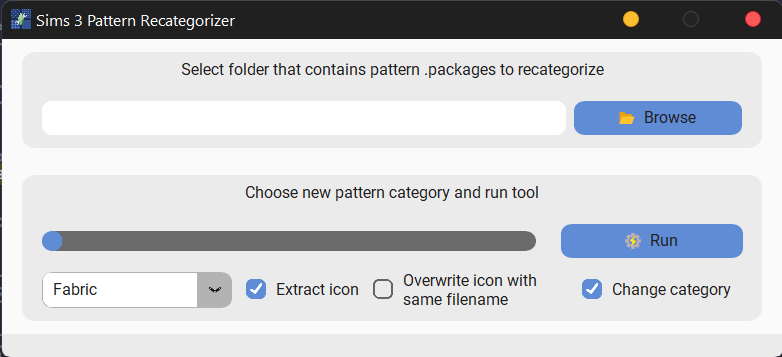
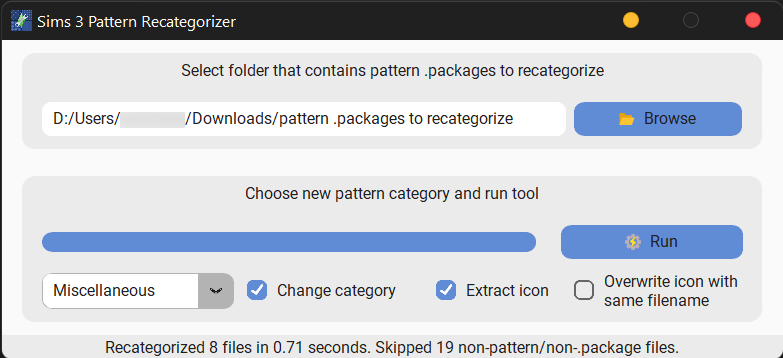
Add check to saving .package files
- Only save .package files when PTRN resources are found
  (i.e., when it is contain pattern resources)

- Update version number to 1.1.0.2

- Move setting working file path on status bar and add self.update()
  before calling recategorization function to ensure status bar
  correctly shows current file processing

- Move change category setting on GUI to next to category dropdown to
  visually group related settings

diff --git a/ProgramGUI.py b/ProgramGUI.py
@@ -1,4 +1,5 @@
 import os
+import time
 import tkinter as tk
 from tkinter import filedialog, messagebox
 from PatternRecategorizer import PatternRecategorizer
@@ -64,6 +65,7 @@ class App(ctk.CTk):
             num_files = len(files)
             recategorizer = PatternRecategorizer(
                 new_category, extract_icon, overwrite, change_category)
+            start_time = time.perf_counter()
             for file_count, filename in enumerate(files, 1):
                 f = os.path.join(path, filename)
                 name, extension = os.path.splitext(f)
@@ -73,9 +75,10 @@ class App(ctk.CTk):
                         print('Skipped file that is not .package')
                         skipped_files += 1
                         continue
+                    self.status_update.set(f"Working on {filename}")
+                    self.update()
                     # recategorizer.recategorize(f)
                     PackageRecategorizer.recategorize(f, name, recategorizer)
-                    self.status_update.set(f"Working on {filename}")
                     completed_files += 1
                     # time.sleep(0.1)
                 except Exception as e:
@@ -86,12 +89,19 @@ class App(ctk.CTk):
                     self.progress_bar.set(file_count / num_files)
                     self.update()
 
+            end_time = time.perf_counter()
+            time_taken = end_time - start_time
             if completed_files == 0:
                 self.status_update.set(
-                    "No pattern .package files found in folder.")
+                    f"No pattern .package files found in folder.")
             else:
-                self.status_update.set(
-                    f"Completed {completed_files} files. Skipped {skipped_files} non-pattern/non-.package files.")
+                if change_category:
+                    self.status_update.set(
+                        f"Recategorized {completed_files} files in {time_taken:.2f} seconds. "
+                        f"Skipped {skipped_files} non-pattern/non-.package files.")
+                if extract_icon and not change_category:
+                    self.status_update.set(
+                        f"Completed extracting ICONs from {completed_files} files in {time_taken:.2f} seconds.")
 
         def extract_icon_callback():
             if self.extract_icon.get():
@@ -195,17 +205,24 @@ class App(ctk.CTk):
         self.category_menu.grid(
             row=2, column=0, sticky='we', padx=(15, 10), pady=10)
 
+        self.change_category_checkbox = ctk.CTkCheckBox(
+            self.row_2, text="Change category", 
+            border_width=1.5, width=16, height=16, corner_radius=5, pady=10, 
+            variable=self.change_category, onvalue=True, offvalue=False)
+        self.change_category_checkbox.grid(row=2, column=7, padx=(0, 30))
+
         self.extract_icon_checkbox = ctk.CTkCheckBox(
-            self.row_2, text="Extract icon", border_width=1.5, width=16, height=16, corner_radius=5, pady=10, variable=self.extract_icon, onvalue=True, offvalue=False, command=extract_icon_callback)
-        self.extract_icon_checkbox.grid(row=2, column=7)
+            self.row_2, text="Extract icon", 
+            border_width=1.5, width=16, height=16, corner_radius=5, pady=10, 
+            variable=self.extract_icon, onvalue=True, offvalue=False, 
+            command=extract_icon_callback)
+        self.extract_icon_checkbox.grid(row=2, column=8)
 
         self.overwrite_checkbox = ctk.CTkCheckBox(
-            self.row_2, text="Overwrite icon with\nsame filename", border_width=1.5, width=16, height=16, corner_radius=5, pady=10, variable=self.overwrite, onvalue=True, offvalue=False)
-        self.overwrite_checkbox.grid(row=2, column=8, padx=10)
-
-        self.change_category_checkbox = ctk.CTkCheckBox(
-            self.row_2, text="Change category", border_width=1.5, width=16, height=16, corner_radius=5, pady=10, variable=self.change_category, onvalue=True, offvalue=False)
-        self.change_category_checkbox.grid(row=2, column=9)
+            self.row_2, text="Overwrite icon with\nsame filename", 
+            border_width=1.5, width=16, height=16, corner_radius=5, pady=10, 
+            variable=self.overwrite, onvalue=True, offvalue=False)
+        self.overwrite_checkbox.grid(row=2, column=9)
 
         # ============ row_3 ============
 

diff --git a/PatternRecategorizer.py b/PatternRecategorizer.py
@@ -22,9 +22,6 @@ under the GNU General Public License v3.
 
 
 class PatternRecategorizer:
-    # class NotPackageFile(Exception):
-    # pass
-
     def __init__(self, new_category: str, extract_icon: bool = True,
                  overwrite: bool = False, change_category: bool = True):
         self.resource_changer = ResourceChanger(new_category)
@@ -33,19 +30,9 @@ class PatternRecategorizer:
         self.change_category = change_category
 
     index = 2
-
-    def recategorize(self, path: str):
-        filename, extension = os.path.splitext(path)
-        if extension != '.package':
-            raise PatternRecategorizer.NotPackageFile
-        package = Package.OpenPackage(0, path, True)
-
-        try:
-            self.recategorize_package(package, filename)
-        except Exception as e:
-            raise e
-        finally:
-            Package.ClosePackage(0, package)
+    
+    class NoPTRNResources(Exception):
+        pass
 
     def recategorize_package(self, package: Package, filename: str) -> None:
         def extract_resource(package: Package, indexEntry: IResourceIndexEntry) -> str:
@@ -62,6 +49,7 @@ class PatternRecategorizer:
             package.ReplaceResource(indexEntry, tmp)
 
         resources = package.GetResourceList
+        found_ptrn = False
         for indexEntry in resources:
             resource_type = indexEntry.ResourceType
 
@@ -88,7 +76,8 @@ class PatternRecategorizer:
                     xml_resource = extract_resource(package, indexEntry)
                     # Recategorize pattern in xml
                     xml = self.resource_changer.change_xml(xml_resource)
-                    write_resource(package, indexEntry, xml, resource_type)
+                    if xml != None:
+                        write_resource(package, indexEntry, xml, resource_type)
 
                 # Get patternlist resource
                 if resource_type == 0xD4D9FBE5:
@@ -96,6 +85,7 @@ class PatternRecategorizer:
                     # Recategorize pattern in ptrn
                     ptrn = self.resource_changer.change_ptrn(ptrn_resource)
                     write_resource(package, indexEntry, ptrn, resource_type)
+                    found_ptrn = True
 
                 # Get pattern xml manifest
                 if resource_type == 0x73E93EEB:
@@ -103,5 +93,13 @@ class PatternRecategorizer:
                     # Recategorize pattern in manifest
                     manifest = self.resource_changer.change_manifest(
                         xml_manifest)
-                    write_resource(package, indexEntry,
-                                   manifest, resource_type)
+                    if manifest != None:
+                        write_resource(package, indexEntry,
+                                    manifest, resource_type)
+        
+        
+        if self.change_category and found_ptrn:
+            package.SavePackage()
+        elif self.change_category and not found_ptrn:
+            raise self.NoPTRNResources
+        

diff --git a/ResourceChanger.py b/ResourceChanger.py
@@ -5,10 +5,13 @@ class ResourceChanger:
     def __init__(self, new_category: str):
         self.new_category = new_category
 
-    def change_xml(self, xml) -> str:
+    def change_xml(self, xml) -> str | None:
         pattern_data = BeautifulSoup(xml, "xml").complate
-        pattern_data['category'] = self.new_category
-        return pattern_data.prettify()
+        if pattern_data == None:
+            return None
+        else:
+            pattern_data['category'] = self.new_category
+            return pattern_data.prettify()
 
     def change_ptrn(self, ptrn) -> str:
         pattern_list = BeautifulSoup(ptrn, "lxml").patternlist
@@ -17,8 +20,11 @@ class ResourceChanger:
 
     def change_manifest(self, manifest) -> str:
         pattern_manifest = BeautifulSoup(manifest, "xml")
-        mat_category = pattern_manifest.matcategory
-        if mat_category != None:
+        matcategory = pattern_manifest.matcategory
+        matCategory = pattern_manifest.matCategory
+        if matcategory == None and matCategory == None:
+            return None
+        elif matcategory != None:
             pattern_manifest.matcategory.string = self.new_category
         else:
             pattern_manifest.matCategory.string = self.new_category

diff --git a/Package.py b/Package.py
@@ -9,7 +9,6 @@ class PackageRecategorizer:
         
         try:
             recategorizer.recategorize_package(package, filename)
-            package.SavePackage()
         except Exception as e:
             raise e
         finally:

diff --git a/s3pr_README_v1.1.0.2.md b/s3pr_README_v1.1.0.2.md
@@ -1,0 +1,91 @@
+SIMS 3 PATTERN RECATEGORIZER 🔧
+===============================
+
+LATEST VERSION
+--------------
+V.1.1.0.2 (September 14, 2022)
+
+
+LICENSE
+-------
+GNU Public License v3.0
+
+
+WHAT IS THIS TOOL?
+------------------
+Sims 3 Pattern Recategorizer is a tool that lets you:
+(1) extract icons, and/or 
+(2) change the in-game category 
+of Sims 3 pattern .package files.
+
+
+REQUIREMENTS
+------------
+[Microsoft .NET Framework 4](https://www.microsoft.com/en-us/download/details.aspx?id=17851)
+
+
+HOW TO USE IT?
+--------------
+1) Put all the patterns you want to edit into one folder.
+   ⚠ CAUTION: Using this tool will **OVERWRITE** your existing files. 
+   It is recommended you save a backup of your patterns before using this tool!
+   
+
+2) Select the settings you want. From left to right, they are:
+
+   - Category [dropdown menu]: 
+     Choose the new in-game category you want your pattern to belong to.
+     (Only valid when *Change category* is CHECKED.)
+
+   - Change category [checkbox]:
+     When CHECKED, the program will recategorize the pattern files according to the chosen category.
+   
+   - Extract icon [checkbox]: 
+     When CHECKED, the program will extract the icons from the .package files.
+     NOTE: this program has a nice side effect of extracting ICON resources from ALL types of 
+     .packages, not just patterns!
+
+     - Overwrite icon with same filename [checkbox]:
+       The program saves the extracted icon with the same filename as the .package files
+       for easy organization. 
+       When CHECKED, the program will overwrite any .png files with the same filename, even those
+       generated by itself.
+       When UNCHECKED, if an existing .png file with the same filename is found, the program will 
+       automatically save files with a number index at the end (e.g., filename_2.png) so that the 
+       program doesn't overwrite the existing file. This is also useful in the case of merged 
+       pattern files, as there would be many ICON resources in one .package.
+
+
+3) Run the program.
+   The tool works for both single and merged pattern .package files, and skips over any files it
+   does not recognize as a .package file containing pattern resources. Be warned that when working 
+   with merged .package files, it will recategorize *every single* pattern in the file!
+   NOTE: This program will only modify .packages when PTRN (0xD4D9FBE5) resources are found!
+
+
+ABOUT THE CREATOR
+-----------------
+This tool was created by [Yen](oxytosim.tumblr.com).
+Please contact me on Tumblr to request bugfixes, additional features, or anything!
+
+
+ACKNOWLEDGEMENTS
+----------------
+Thank you to:
+
+- [Andu's Pattern Preset Color Extractor](https://simlicious.tumblr.com/post/642139913079406592/pattern-preset-color-extractor-ppce-a-sims-3)
+  for being a wonderful open source tool that allowed me to reference how to
+  extract information from patterns!
+
+- [Peter L Jone's s3pi](s3pi.sourceforge.net/)
+  for creating an indispensable library to work with Sims 3 .package files!
+
+- [Simlicious](https://simlicious.tumblr.com/)
+  for being the best beta tester a girl could ask for! I heartily thank her for thoroughly testing
+  several iterations of the program, and for enthusiastically suggesting improvements for 
+  future development.
+
+- And the following creators on flaticon:
+  Freepik, kmg jones, and srip
+  for creating wonderful icons that I used as assets in my program.
+
